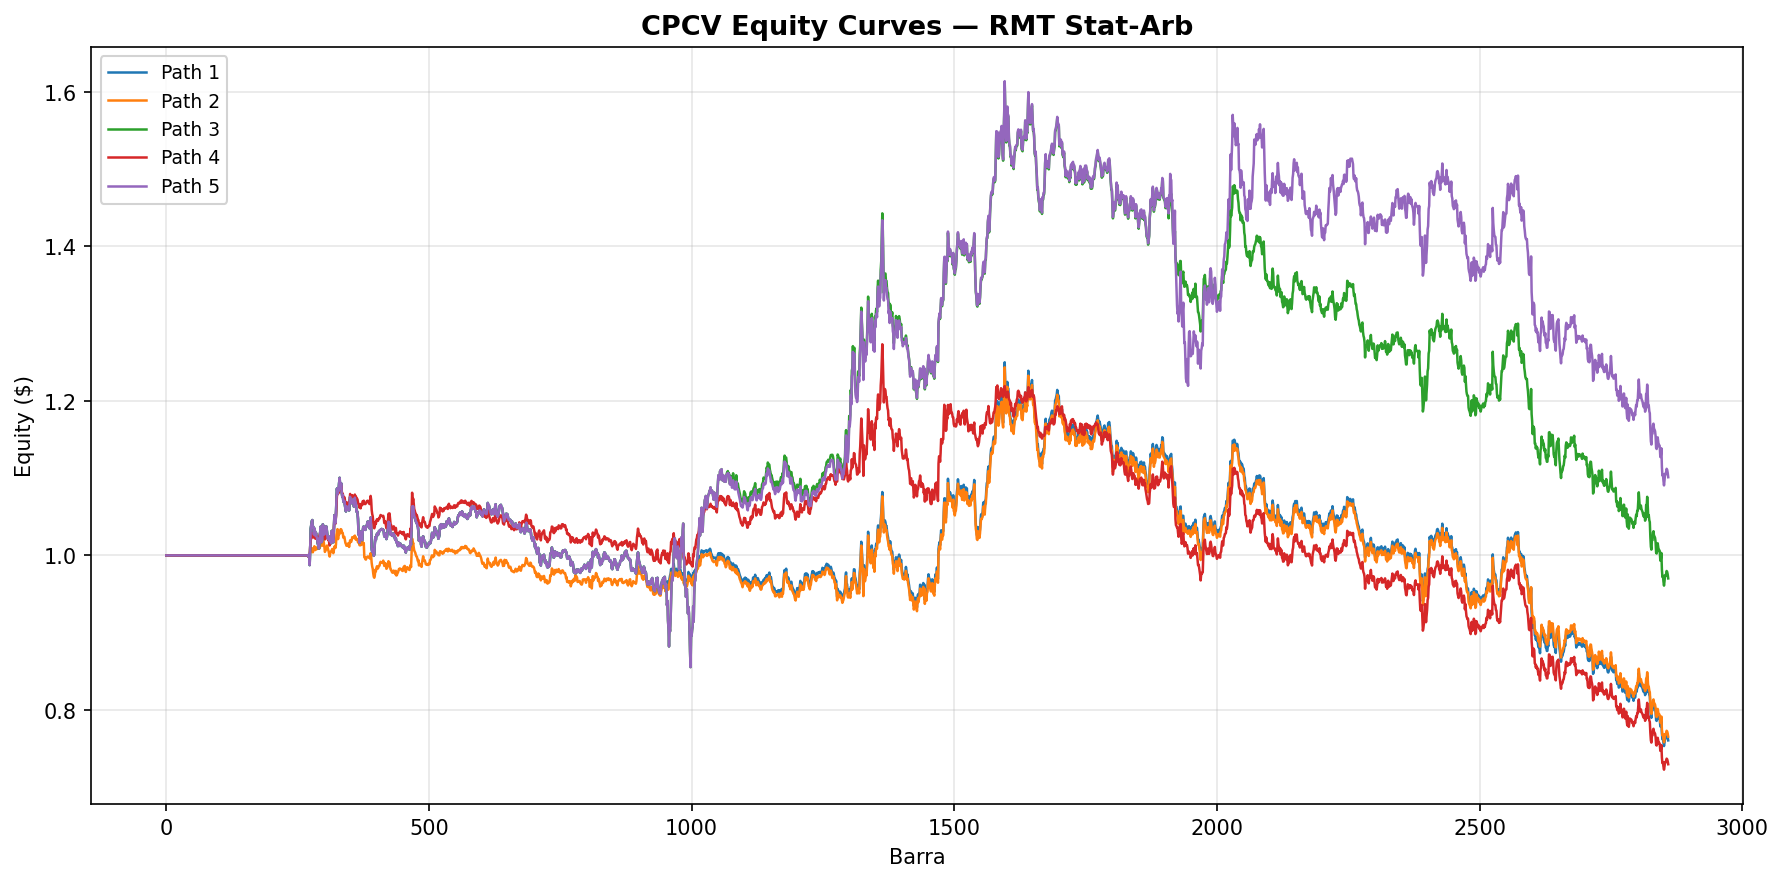
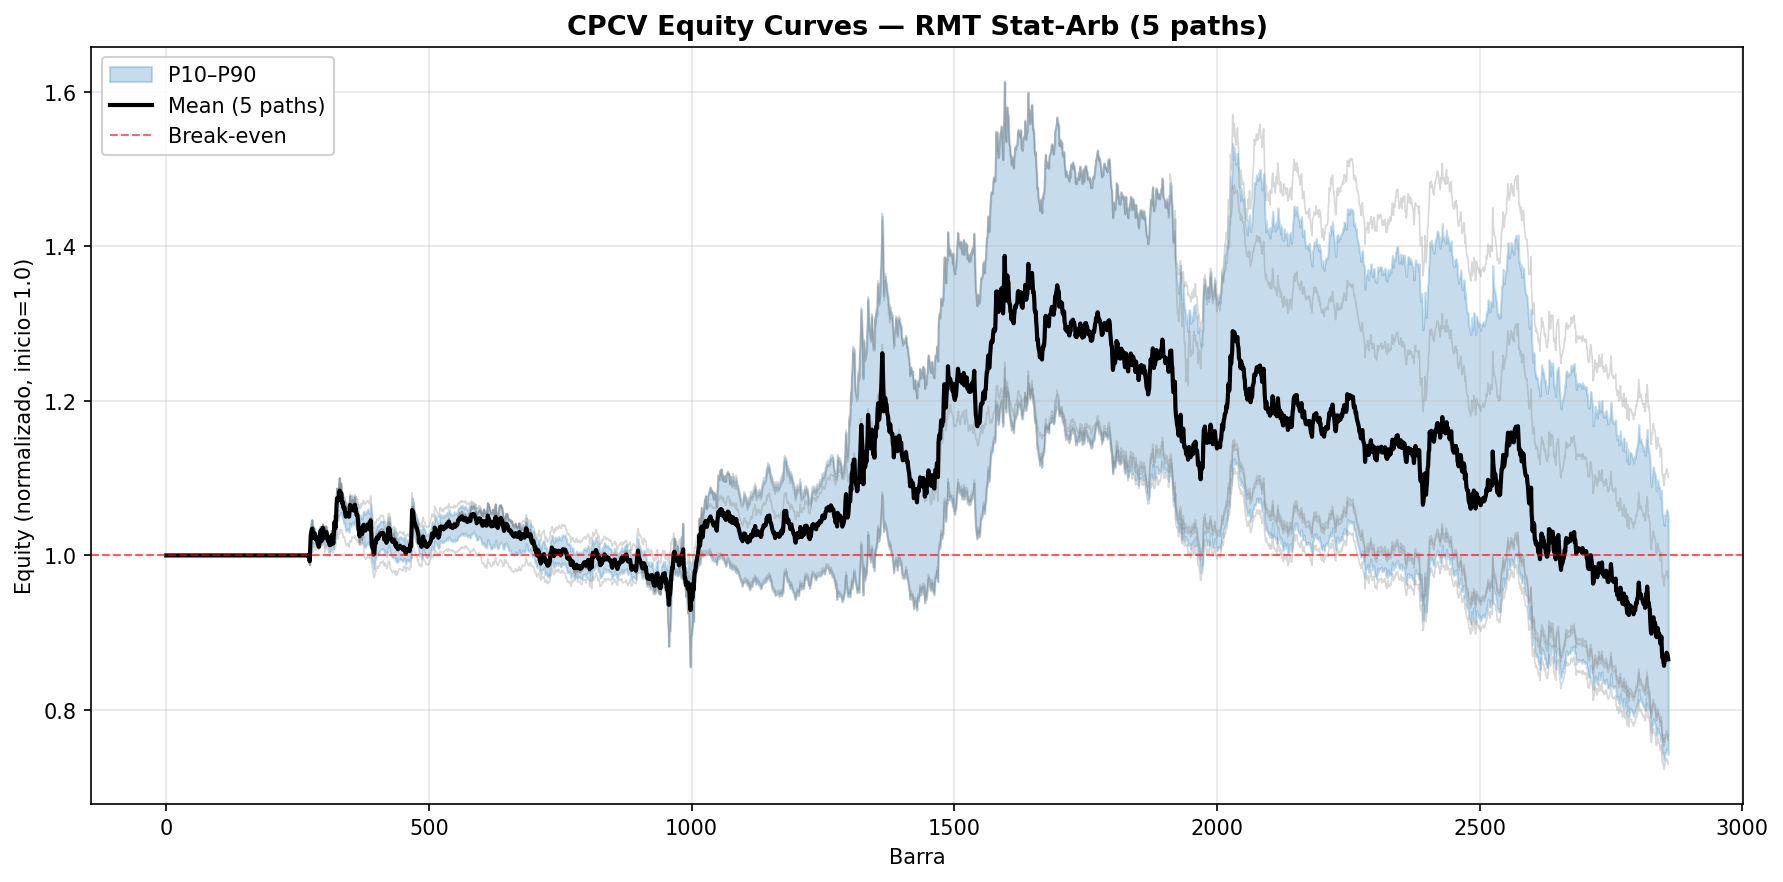
feat: equity curves plot mejorado con banda P10-P90 y break-even
- 5 paths individuales en gris claro (fondo)
- Banda P10-P90 en azul transparente
- Mean line en negro grueso
- Línea break-even en y=1.0
- Eje Y normalizado (inicio=1.0)

diff --git a/rmt_stat_arb/scripts/run_validation_rmt.py b/rmt_stat_arb/scripts/run_validation_rmt.py
@@ -273,16 +273,48 @@ def _fetch_benchmark(start: str, end: str) -> pl.DataFrame | None:
 # ── Plot ──────────────────────────────────────────────────────────────────────
 
 def _plot_equity_curves(ec_df: pd.DataFrame, out_path: Path) -> None:
-    """Genera PNG con las N equity curves del CPCV (una línea por path)."""
+    """
+    Plot de las equity curves del CPCV con:
+      - 5 paths individuales en gris claro (fondo)
+      - Mean de los 5 paths en línea negra gruesa
+      - Banda entre percentil 10 y percentil 90 (en azul transparente)
+      - Línea de break-even en y=1.0
+    """
     fig, ax = plt.subplots(figsize=(12, 6))
-    for path_id in sorted(ec_df["path"].unique()):
-        eq = ec_df[ec_df["path"] == path_id]["equity"].values
-        ax.plot(eq, label=f"Path {path_id}", linewidth=1.2)
-    ax.set_title("CPCV Equity Curves — RMT Stat-Arb", fontsize=13, fontweight="bold")
+
+    # Pivotar: filas = barra, columnas = path
+    pivot = ec_df.pivot(index="bar", columns="path", values="equity")
+
+    # Recortar la parte inicial donde solo hay NaNs (paths arrancan después del warmup)
+    first_valid = pivot.dropna(how="all").index[0]
+    pivot = pivot.loc[first_valid:]
+
+    bars        = pivot.index.values
+    paths_array = pivot.values  # shape (n_bars, n_paths)
+
+    # Estadísticas a través de los paths
+    mean_curve = np.nanmean(paths_array, axis=1)
+    p10        = np.nanpercentile(paths_array, 10, axis=1)
+    p90        = np.nanpercentile(paths_array, 90, axis=1)
+
+    # 5 paths individuales en gris transparente
+    for col in pivot.columns:
+        ax.plot(bars, pivot[col].values, color="gray", alpha=0.3, linewidth=0.8)
+
+    # Banda p10-p90
+    ax.fill_between(bars, p10, p90, alpha=0.25, color="#1f77b4", label="P10–P90")
+
+    # Mean line
+    ax.plot(bars, mean_curve, color="black", linewidth=2.0, label="Mean (5 paths)")
+
+    # Break-even
+    ax.axhline(1.0, color="red", linestyle="--", linewidth=1.0, alpha=0.6, label="Break-even")
+
+    ax.set_title("CPCV Equity Curves — RMT Stat-Arb (5 paths)", fontsize=13, fontweight="bold")
     ax.set_xlabel("Barra")
-    ax.set_ylabel("Equity ($)")
+    ax.set_ylabel("Equity (normalizado, inicio=1.0)")
     ax.grid(True, alpha=0.3)
-    ax.legend(loc="upper left", fontsize=9, framealpha=0.85)
+    ax.legend(loc="upper left", fontsize=10, framealpha=0.9)
     fig.tight_layout()
     fig.savefig(out_path, dpi=150, bbox_inches="tight")
     plt.close(fig)